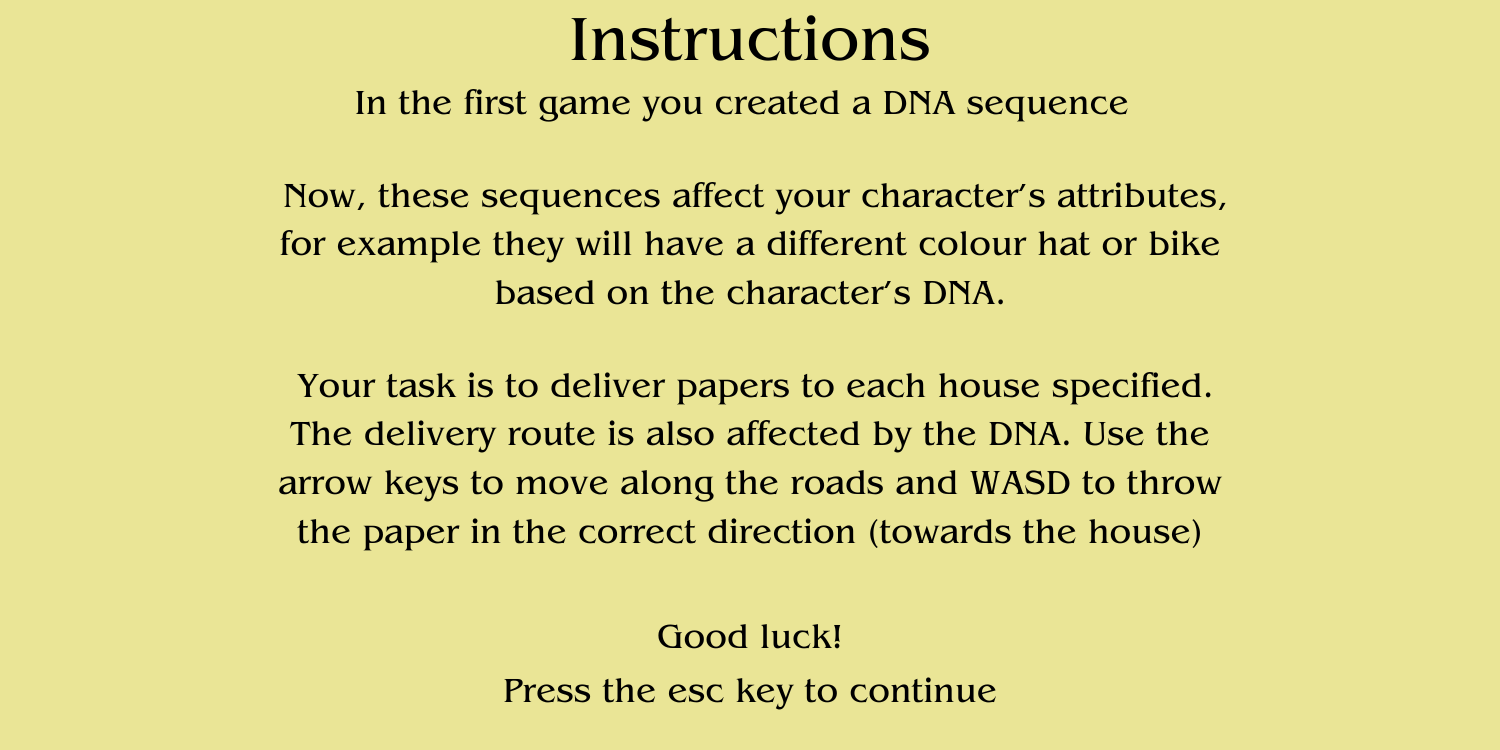
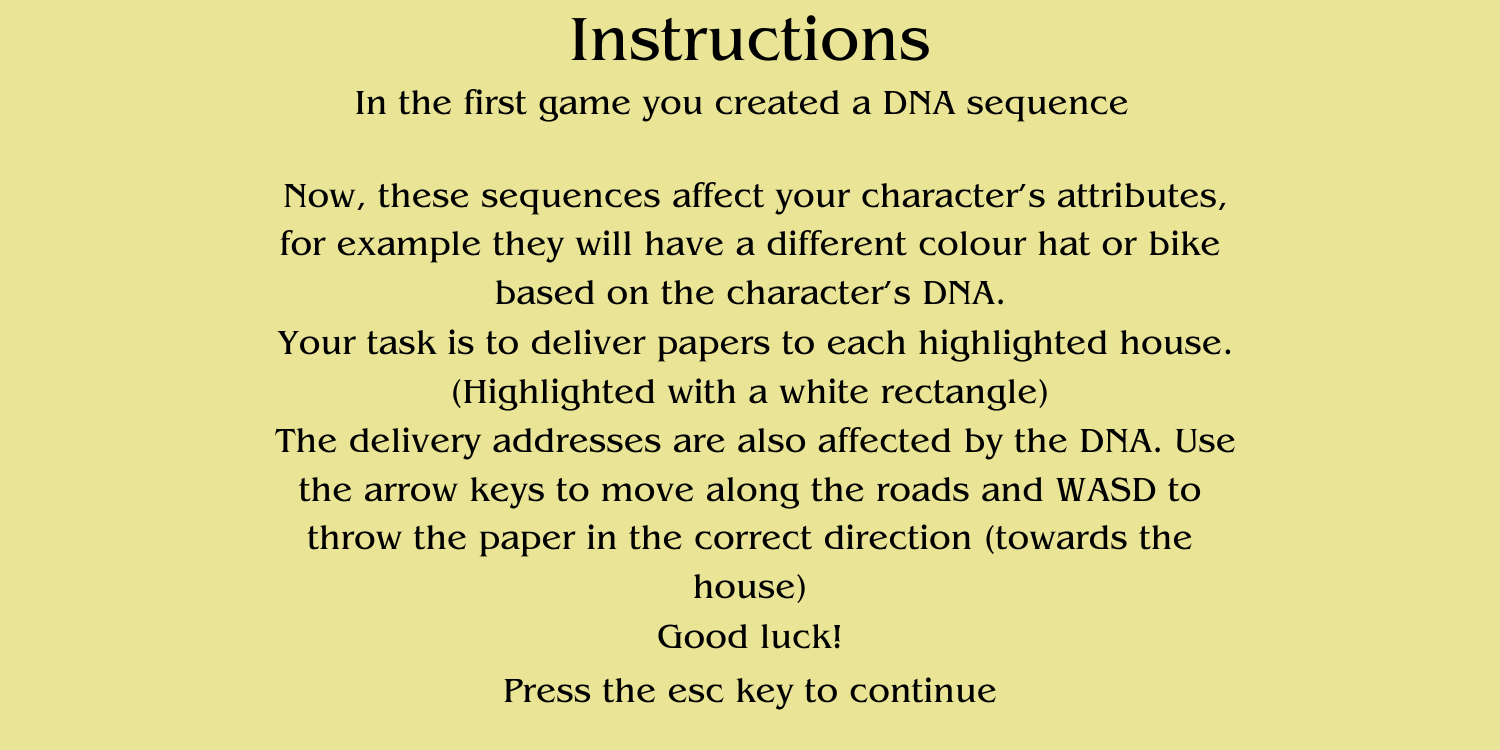
Finished implementation of paperboy, added time and endgame conditions / screen

Changed region(s): [[0.184, 0.4293, 0.828, 0.736], [0.46, 0.7667, 0.552, 0.7973]]

diff --git a/dev/220424/paperboy_prototype.py b/dev/220424/paperboy_prototype.py
@@ -31,7 +31,6 @@ character_background = pygame.image.load("assets/Characters_screenBG.png")
 instructions = pygame.image.load("assets/Paperboy_Instructions.png").convert()
 
 # Set up the player
-player = pygame.Rect(370, 0, 20, 20)
 player_speed = 5
 
 # Define the valid movement areas or paths
@@ -57,11 +56,80 @@ roads = [
     pygame.Rect(1245, 635, 245, 1),
     pygame.Rect(1245, 737, 245, 1)]
 
+# Define the houses to deliver to
+houses = [
+    # Top row
+    pygame.Rect(16, 70, 99, 70),   # 1
+    pygame.Rect(117, 70, 99, 70),  # 2
+    pygame.Rect(221, 70, 99, 70),  # 3
+    pygame.Rect(402, 70, 99, 70),  # etc
+    pygame.Rect(504, 70, 99, 70),
+    pygame.Rect(605, 70, 99, 70),
+    pygame.Rect(705, 70, 99, 70),
+    pygame.Rect(810, 70, 99, 70),
+    pygame.Rect(911, 70, 99, 70),
+    pygame.Rect(1011, 70, 99, 70),
+    pygame.Rect(1115, 70, 99, 70),
+    pygame.Rect(1215, 70, 99, 70),
+    pygame.Rect(1315, 70, 99, 70),
+
+    # Right most column
+    pygame.Rect(1400, 142, 99, 70),
+    pygame.Rect(1400, 241, 99, 70),
+    pygame.Rect(1400, 345, 99, 70),
+    pygame.Rect(1400, 451, 99, 70),
+    pygame.Rect(1400, 554, 99, 70),
+    pygame.Rect(1400, 659, 99, 70),
+
+    # Second right column
+    pygame.Rect(1263, 242, 99, 70),
+    pygame.Rect(1263, 344, 99, 70),
+    pygame.Rect(1263, 446, 99, 70),
+    pygame.Rect(1263, 553, 99, 70),
+    pygame.Rect(1263, 656, 99, 70),
+
+    # Left most column
+    pygame.Rect(50, 181, 91, 122),
+    pygame.Rect(50, 336, 91, 122),
+    pygame.Rect(50, 492, 91, 122),
+
+    # Second left column
+    pygame.Rect(191, 183, 91, 122),
+    pygame.Rect(191, 337, 91, 122),
+    pygame.Rect(191, 493, 91, 122),
+
+    # Top Centre
+    pygame.Rect(479, 225, 189, 93),
+    pygame.Rect(721, 225, 189, 93),
+
+    # Bottom centre
+    pygame.Rect(488, 539, 189, 93),
+    pygame.Rect(730, 538, 189, 93)]
+
 
 # Used to display text to the user
 def showText(msg, color, x, y):
     msg = font_style.render(msg, True, color)
     game_display.blit(msg, [x, y])
+
+
+# Checks if the delivery is valid and which house it corresponds to
+def checkDelivery(testRect, direction):
+    testRect = testRect.copy()
+    if direction == "up":
+        testRect.move_ip(0, -50)
+    if direction == "down":
+        testRect.move_ip(0, 50)
+    if direction == "left":
+        testRect.move_ip(-50, 0)
+    if direction == "right":
+        testRect.move_ip(50, 0)
+
+    for house in houses:
+        if testRect.colliderect(house):
+            return houses.index(house) + 1
+
+    return -1
 
 
 # Generates 10 numbers from the DNA sequence between 1 and 34, which is used as the paper route
@@ -74,7 +142,6 @@ def generate_numbers(dna):
 
     # Generate 10 numbers between 1 and 34 (inclusive)
     numbers = [(x % 34) + 1 for x in integers]
-    print(numbers)
 
     return numbers[:10]
 
@@ -84,7 +151,7 @@ def playerSelect():
     game_display.fill(colours['white'])
     characterNo = 0
     charSelection = True
-    forwardArrow = pygame.Rect(550, 333, 158, 158)
+    forwardArrow = pygame.Rect(450, 175, 158, 158)
     backwardArrow = pygame.Rect(950, 175, 158, 158)
     playerSelection = ''
 
@@ -92,7 +159,8 @@ def playerSelect():
         # Takes last image generated from character selection
         with open('snake_scores.csv', 'r') as f:
             line = f.readlines()
-            line = line[(characterNo - 1) % len(line)]   # Extract filename
+            noCharacters = len(line)
+            line = line[(characterNo - 1) % noCharacters]   # Extract filename
 
         playerSelection = line[:24]
         playerOnScreen = Image.open("assets/character_options/" + playerSelection + ".png")
@@ -114,6 +182,8 @@ def playerSelect():
                  "' are expressed within the secondary clothing colour", colours['black'], 50, 550)
         showText("The character's last eight genes: '" + playerSelection[16:] +
                  "' are expressed within the character's bike colour", colours['black'], 50, 600)
+        showText("This is character no. " + str((characterNo % noCharacters) + 1) + " out of: " + str(noCharacters), colours['black'], 50,
+                 650)
 
         pygame.display.update()
 
@@ -128,10 +198,10 @@ def playerSelect():
             if event.type == pygame.MOUSEBUTTONUP:
                 mousePos = pygame.mouse.get_pos()
                 if forwardArrow.collidepoint(mousePos):
-                    characterNo += 1
-                if backwardArrow.collidepoint(mousePos):
                     characterNo -= 1
-                break
+                elif backwardArrow.collidepoint(mousePos):
+                    characterNo += 1
+            break
 
     return playerSelection
 
@@ -154,15 +224,37 @@ def displayInstructions():
 def main():
     # Used to end the game
     game_over = False
+    game_close = False
+    gameTime = 0
 
     displayInstructions()
     playerSelection = playerSelect()
     playerImg = pygame.image.load("assets/character_options/" + playerSelection + ".png")
-
-    generate_numbers(playerSelection)
+    houseNumbers = generate_numbers(playerSelection)
+    clock = pygame.time.Clock()
+    start_ticks = pygame.time.get_ticks()
 
     # Main game loop
     while not game_over:
+        player = pygame.Rect(370, 0, 20, 20)
+        clock.tick(60)
+
+        # After game completion
+        while game_close:
+            game_display.fill(colours['white'])
+            showText("You won! With a time of: " + str(gameTime), colours['black'], width / 3, height / 2)
+            showText("Press Q-Quit or C-Play Again", colours['green'], width / 3, (height / 2) + 50)
+            pygame.display.flip()
+
+            # Handle user input for endgame
+            for event in pygame.event.get():
+                if event.type == pygame.KEYDOWN:
+                    if event.key == pygame.K_q:
+                        game_over = True
+                        game_close = False
+                    if event.key == pygame.K_c:
+                        main()
+
         # Will be used for ending the game
         for event in pygame.event.get():
             if event.type == pygame.QUIT:
@@ -204,6 +296,28 @@ def main():
             else:
                 player.move_ip(0, -player_speed)
 
+        # Paper delivery options
+        deliveryNo = -1
+        if keys[pygame.K_w]:
+            deliveryNo = checkDelivery(player, "up")
+
+        if keys[pygame.K_s]:
+            deliveryNo = checkDelivery(player, "down")
+
+        if keys[pygame.K_a]:
+            deliveryNo = checkDelivery(player, "left")
+
+        if keys[pygame.K_d]:
+            deliveryNo = checkDelivery(player, "right")
+
+        if deliveryNo >= 0:
+            if deliveryNo in houseNumbers:
+                houseNumbers.remove(deliveryNo)
+
+        if len(houseNumbers) == 0:
+            game_close = True
+            gameTime = (pygame.time.get_ticks()-start_ticks)/1000
+
         # Fill the screen with white
         game_display.fill(colours['white'])
 
@@ -216,6 +330,10 @@ def main():
 
         # Draw the player
         game_display.blit(playerImg, player)
+
+        # Draw highlight of houses to deliver to
+        for house in houseNumbers:
+            pygame.draw.rect(game_display, colours['white'], houses[house - 1], 3)
 
         # Update the display
         pygame.display.flip()
